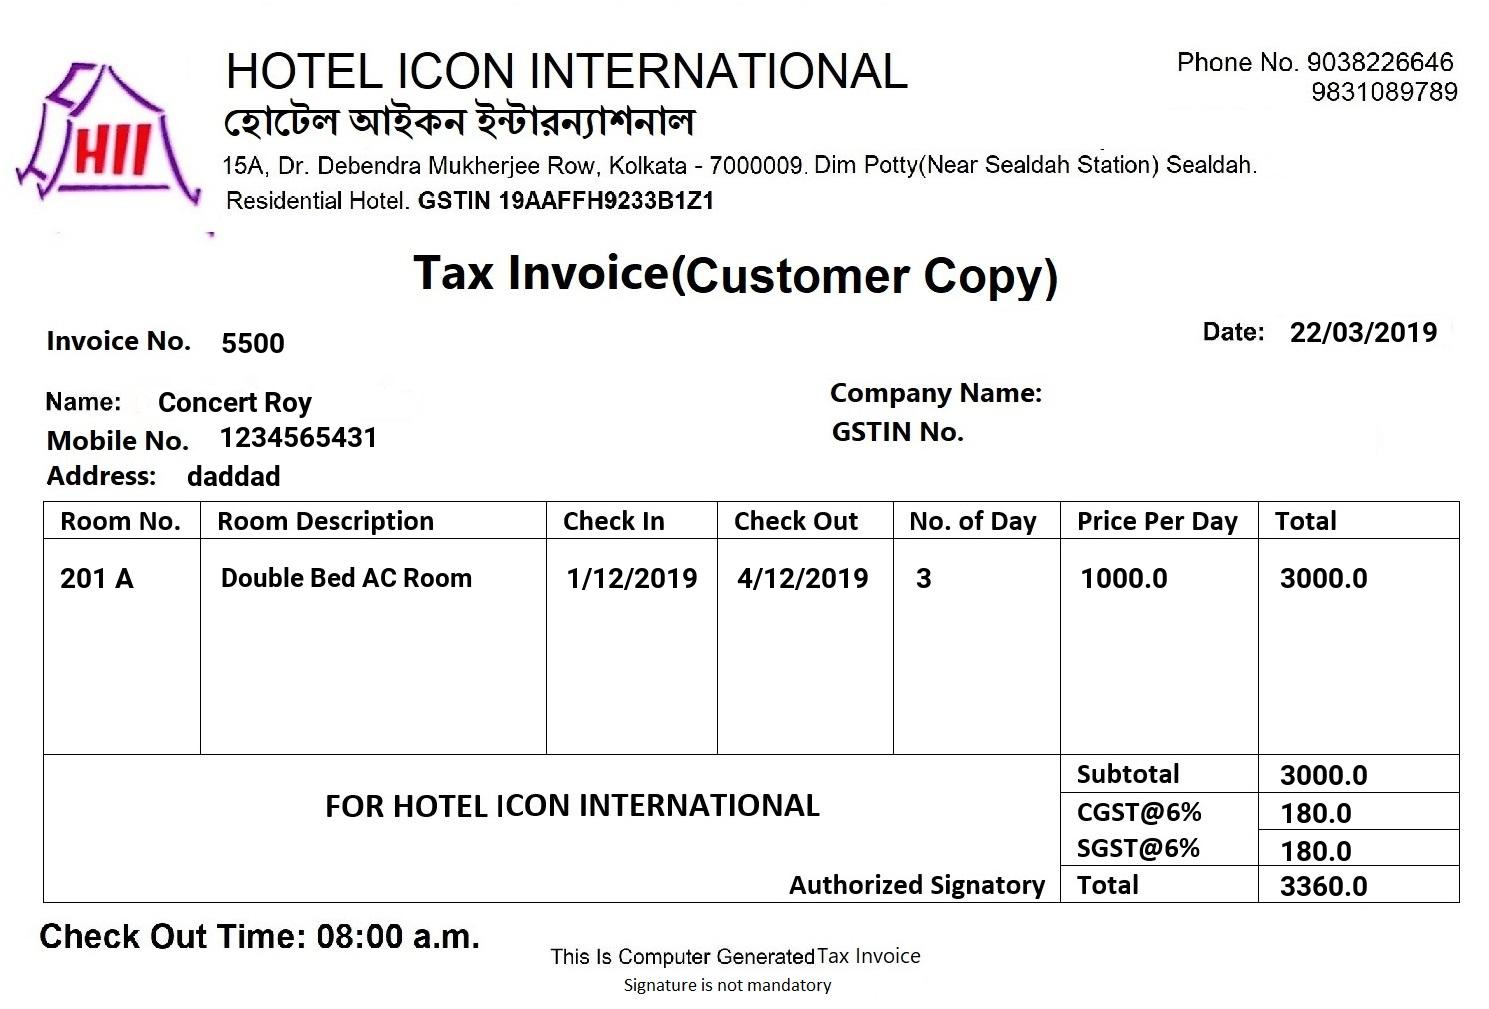
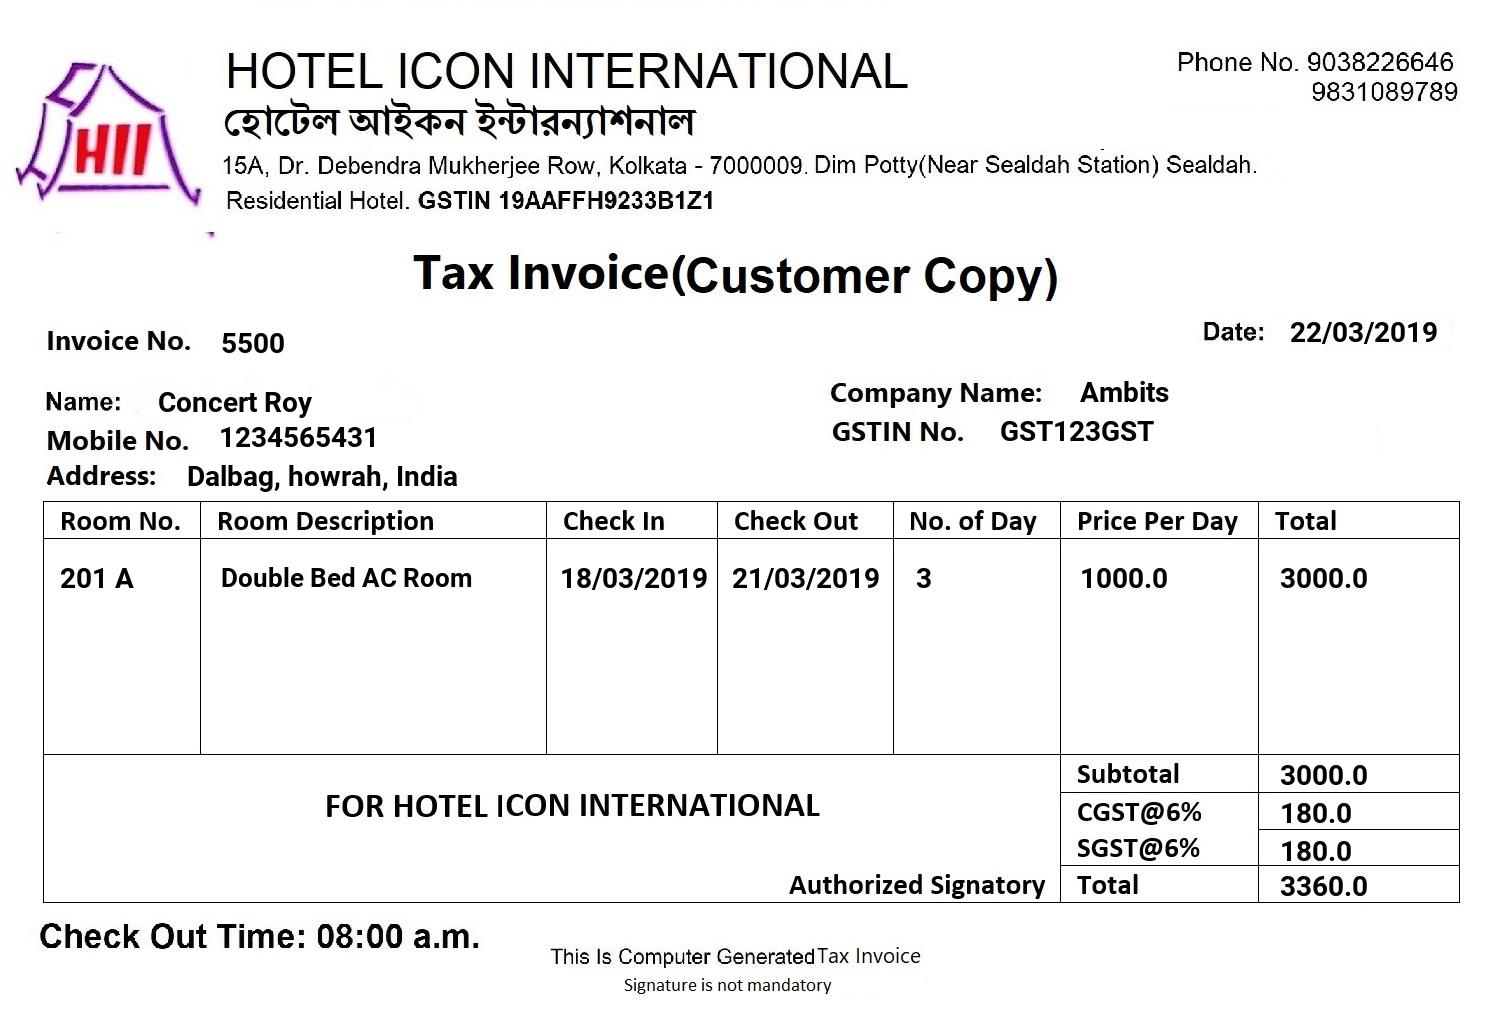
moded

Changed region(s): [[0.6797, 0.3687, 0.8032, 0.4609], [0.3707, 0.553, 0.587, 0.5837], [0.1236, 0.4609, 0.3089, 0.4916]]

diff --git a/mainapp/utilities.py b/mainapp/utilities.py
@@ -69,13 +69,13 @@ def gen_inv(o,copy='cc'):
         draw.text((221,327),str(o.invoice_no),fill="rgb(0,0,0)",font=font)
         draw.text((1290,316),dateformat(o.date.isoformat()),fill="rgb(0,0,0)",font=font)
         draw.text((1080,376),o.company_name,fill="rgb(0,0,0)",font=font)
-        draw.text((1000,414),o.gstin if o.gstin else "",fill="rgb(0,0,0)",font=font)
+        draw.text((1000,415),o.gstin if o.gstin else "",fill="rgb(0,0,0)",font=font)
         draw.text((60,562),o.room_no,fill="rgb(0,0,0)",font=font)
         font = ImageFont.truetype("robold.ttf",size=26)
         draw.text((221,562),desc,fill="rgb(0,0,0)",font=font)
         font = ImageFont.truetype("robold.ttf",size=28)
-        draw.text((566,562),dateformat(o.check_in.isoformat()),fill="rgb(0,0,0)",font=font)
-        draw.text((737,562),dateformat(o.check_out.isoformat()),fill="rgb(0,0,0)",font=font)
+        draw.text((560,562),dateformat(o.check_in.isoformat()),fill="rgb(0,0,0)",font=font)
+        draw.text((732,562),dateformat(o.check_out.isoformat()),fill="rgb(0,0,0)",font=font)
         draw.text((916,562),str(o.days_count),fill="rgb(0,0,0)",font=font)
         draw.text((1080,562),str(o.rate/1),fill="rgb(0,0,0)",font=font)
         draw.text((1280,562),str(o.total()/1),fill="rgb(0,0,0)",font=font)

diff --git a/mainapp/views.py b/mainapp/views.py
@@ -1,7 +1,7 @@
 from django.shortcuts import render,HttpResponse,HttpResponseRedirect,reverse
 from .forms import InvoiceForm,SearchByDateForm
 from .models import Invoice,Room
-from .utilities import gen_duesbill,gen_inv
+from .utilities import gen_duesbill,gen_moneyreciept,gen_inv
 from datetime import datetime
 
 
